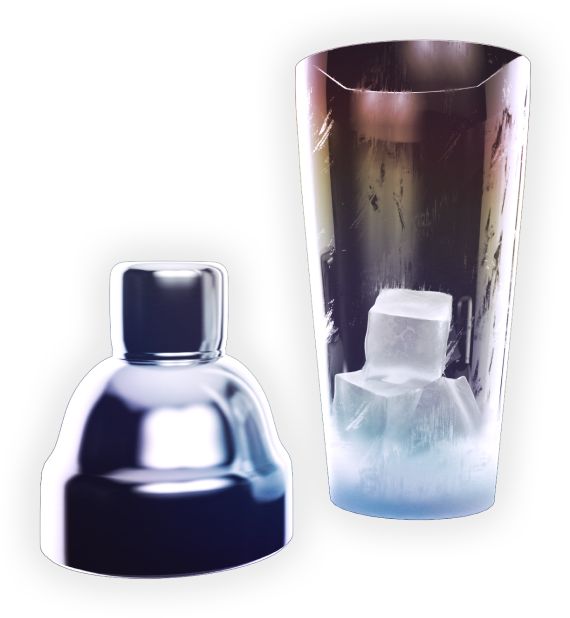
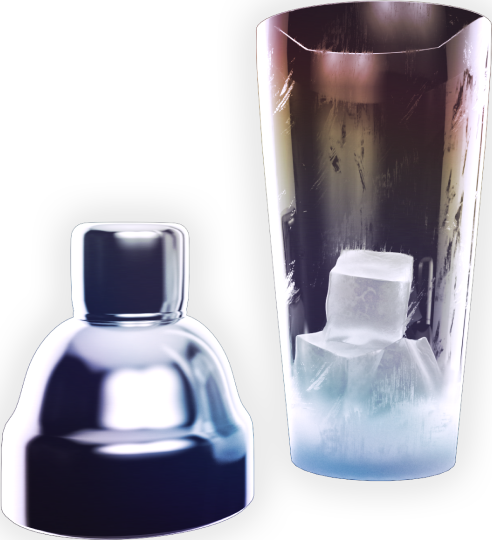
Доделал шейкеры!!!

diff --git a/slider.html b/slider.html
@@ -462,14 +462,25 @@
         </li>
         <li class="cocktail8_slide">
           <div class="slide cocktails-slide">
-          <div class="cocktail-recipes-pic-7"></div>
-          <p class="cocktail-recipes-under-h1">Добавьте 50 мл джина Drumshanbo Gunpowder Irish Gin в шейкер</p>
+          <div class="cocktail-recipes-pic-6"></div>
+          <p class="cocktail-recipes-under-h1">Добавьте в шейкер пару крупных кубиков 
+            льда и потрясите его, чтобы охладить. 
+            Как закончите, лед нужно извлечь</p>
         </div>
         <a class="cocktails-footer-button rotate-button">
             <div class="footer-button-arrow"></div>
         </a>
         </li>
         <li class="cocktail9_slide">
+          <div class="slide cocktails-slide">
+          <div class="cocktail-recipes-pic-7"></div>
+          <p class="cocktail-recipes-under-h1">Добавьте 50 мл джина Drumshanbo Gunpowder Irish Gin в шейкер</p>
+        </div>
+        <a class="cocktails-footer-button rotate-button">
+            <div class="footer-button-arrow"></div>
+        </a>
+        </li>        
+        <li class="cocktail10_slide">
           <div class="slide cocktails-slide">
           <div class="cocktail-recipes-pic-8"></div>
           <p class="cocktail-recipes-under-h1">Туда же добавляем 100 мл кордиала Texture Master Rhubarb & Sichuan Pepper</p>
@@ -478,7 +489,7 @@
             <div class="footer-button-arrow"></div>
         </a>
         </li>
-        <li class="cocktail10_slide">
+        <li class="cocktail11_slide">
           <div class="slide cocktails-slide">
           <div class="cocktail-recipes-pic-9"></div>
           <p class="cocktail-recipes-under-h1">Плотно закрываем шейкер и, придерживая верхнюю крышку рукой, взбалтываем напиток 
@@ -488,7 +499,7 @@
                 <div class="footer-button-arrow"></div>
             </a>
         </li>
-        <li class="cocktail11_slide">
+        <li class="cocktail12_slide">
           <div class="slide cocktails-slide">
           <div class="cocktail-recipes-pic-10"></div>
           <p class="cocktail-recipes-under-h1">Далее наполните глубокий бокал льдом доверху и вылейте в него содержимое шейкера</p>

diff --git a/scss/style.scss b/scss/style.scss
@@ -567,41 +567,41 @@ h1 {
 }
 
 .cocktail-recipes-pic-6 {
-    margin: calc(125/1117*100dvh) 0 0 calc(283/1117*100dvh);
-    width: calc(526/1117*100dvh);
-    height: calc(575/1117*100dvh);
+    margin: calc(156/1117*100dvh) 0 calc(74/1117*100dvh) calc(200/1117*100dvh);
+    width: calc(492/1117*100dvh);
+    height: calc(540/1117*100dvh);
     background: url("../img/shaker_0.png") center center no-repeat;
     background-size: contain;
 }
 
 .cocktail-recipes-pic-7 {
-    margin: calc(141/1117*100dvh) 0 0 calc(193/1117*100dvh);
-    width: calc(526/1117*100dvh);
-    height: calc(575/1117*100dvh);
+    margin: calc(156/1117*100dvh) 0 calc(74/1117*100dvh) calc(200/1117*100dvh);
+    width: calc(492/1117*100dvh);
+    height: calc(540/1117*100dvh);
     background: url("../img/shaker_1.png") center center no-repeat;
     background-size: contain;
 }
 
 .cocktail-recipes-pic-8 {
-    margin: calc(131/1117*100dvh) 0 0 calc(186/1117*100dvh);
-    width: calc(526/1117*100dvh);
-    height: calc(575/1117*100dvh);
+    margin: calc(156/1117*100dvh) 0 calc(74/1117*100dvh) calc(200/1117*100dvh);
+    width: calc(492/1117*100dvh);
+    height: calc(540/1117*100dvh);
     background: url("../img/shaker_2.png") center center no-repeat;
     background-size: contain;
 }
 
 .cocktail-recipes-pic-9 {
-    margin: calc(163/1117*100dvh) 0 0 calc(193/1117*100dvh);
-    width: calc(668/1117*100dvh);
+    margin: calc(158/1117*100dvh) 0 calc(108/1117*100dvh) calc(194/1117*100dvh);
+    width: calc(634/1117*100dvh);
     height: calc(504/1117*100dvh);
     background: url("../img/shaker_3.png") center center no-repeat;
     background-size: contain;
 }
 
 .cocktail-recipes-pic-10 {
-    margin: calc(197/1117*100dvh) 0 0 calc(162/1117*100dvh);
-    width: calc(374/1117*100dvh);
-    height: calc(469/1117*100dvh);
+    margin: calc(216/1117*100dvh) 0 calc(131/1117*100dvh) calc(221/1117*100dvh);
+    width: calc(316/1117*100dvh);
+    height: calc(423/1117*100dvh);
     background: url("../img/shaker_4.png") center center no-repeat;
     background-size: contain;
 }

diff --git a/scss/dist/style.css b/scss/dist/style.css
@@ -551,41 +551,41 @@ h1 {
 }
 
 .cocktail-recipes-pic-6 {
-  margin: calc(125/1117*100dvh) 0 0 calc(283/1117*100dvh);
-  width: calc(526/1117*100dvh);
-  height: calc(575/1117*100dvh);
+  margin: calc(156/1117*100dvh) 0 calc(74/1117*100dvh) calc(200/1117*100dvh);
+  width: calc(492/1117*100dvh);
+  height: calc(540/1117*100dvh);
   background: url("../img/shaker_0.png") center center no-repeat;
   background-size: contain;
 }
 
 .cocktail-recipes-pic-7 {
-  margin: calc(141/1117*100dvh) 0 0 calc(193/1117*100dvh);
-  width: calc(526/1117*100dvh);
-  height: calc(575/1117*100dvh);
+  margin: calc(156/1117*100dvh) 0 calc(74/1117*100dvh) calc(200/1117*100dvh);
+  width: calc(492/1117*100dvh);
+  height: calc(540/1117*100dvh);
   background: url("../img/shaker_1.png") center center no-repeat;
   background-size: contain;
 }
 
 .cocktail-recipes-pic-8 {
-  margin: calc(131/1117*100dvh) 0 0 calc(186/1117*100dvh);
-  width: calc(526/1117*100dvh);
-  height: calc(575/1117*100dvh);
+  margin: calc(156/1117*100dvh) 0 calc(74/1117*100dvh) calc(200/1117*100dvh);
+  width: calc(492/1117*100dvh);
+  height: calc(540/1117*100dvh);
   background: url("../img/shaker_2.png") center center no-repeat;
   background-size: contain;
 }
 
 .cocktail-recipes-pic-9 {
-  margin: calc(163/1117*100dvh) 0 0 calc(193/1117*100dvh);
-  width: calc(668/1117*100dvh);
+  margin: calc(158/1117*100dvh) 0 calc(108/1117*100dvh) calc(194/1117*100dvh);
+  width: calc(634/1117*100dvh);
   height: calc(504/1117*100dvh);
   background: url("../img/shaker_3.png") center center no-repeat;
   background-size: contain;
 }
 
 .cocktail-recipes-pic-10 {
-  margin: calc(197/1117*100dvh) 0 0 calc(162/1117*100dvh);
-  width: calc(374/1117*100dvh);
-  height: calc(469/1117*100dvh);
+  margin: calc(216/1117*100dvh) 0 calc(131/1117*100dvh) calc(221/1117*100dvh);
+  width: calc(316/1117*100dvh);
+  height: calc(423/1117*100dvh);
   background: url("../img/shaker_4.png") center center no-repeat;
   background-size: contain;
 }

diff --git a/css/style.css b/css/style.css
@@ -683,41 +683,41 @@ h1 {
 }
 
 .cocktail-recipes-pic-6 {
-  margin: 11.1906893465dvh 0 0 25.3357206804dvh;
-  width: 47.0904207699dvh;
-  height: 51.4771709937dvh;
+  margin: 13.9659803044dvh 0 6.6248880931dvh 17.9051029543dvh;
+  width: 44.0465532677dvh;
+  height: 48.3437779767dvh;
   background: url("../img/shaker_0.png") center center no-repeat;
   background-size: contain;
 }
 
 .cocktail-recipes-pic-7 {
-  margin: 12.6230975828dvh 0 0 17.2784243509dvh;
-  width: 47.0904207699dvh;
-  height: 51.4771709937dvh;
+  margin: 13.9659803044dvh 0 6.6248880931dvh 17.9051029543dvh;
+  width: 44.0465532677dvh;
+  height: 48.3437779767dvh;
   background: url("../img/shaker_1.png") center center no-repeat;
   background-size: contain;
 }
 
 .cocktail-recipes-pic-8 {
-  margin: 11.7278424351dvh 0 0 16.6517457475dvh;
-  width: 47.0904207699dvh;
-  height: 51.4771709937dvh;
+  margin: 13.9659803044dvh 0 6.6248880931dvh 17.9051029543dvh;
+  width: 44.0465532677dvh;
+  height: 48.3437779767dvh;
   background: url("../img/shaker_2.png") center center no-repeat;
   background-size: contain;
 }
 
 .cocktail-recipes-pic-9 {
-  margin: 14.5926589078dvh 0 0 17.2784243509dvh;
-  width: 59.8030438675dvh;
+  margin: 14.1450313339dvh 0 9.6687555953dvh 17.3679498657dvh;
+  width: 56.7591763653dvh;
   height: 45.1208594449dvh;
   background: url("../img/shaker_3.png") center center no-repeat;
   background-size: contain;
 }
 
 .cocktail-recipes-pic-10 {
-  margin: 17.63652641dvh 0 0 14.503133393dvh;
-  width: 33.4825425246dvh;
-  height: 41.9874664279dvh;
+  margin: 19.3375111907dvh 0 11.7278424351dvh 19.7851387645dvh;
+  width: 28.2900626679dvh;
+  height: 37.8692927484dvh;
   background: url("../img/shaker_4.png") center center no-repeat;
   background-size: contain;
 }
